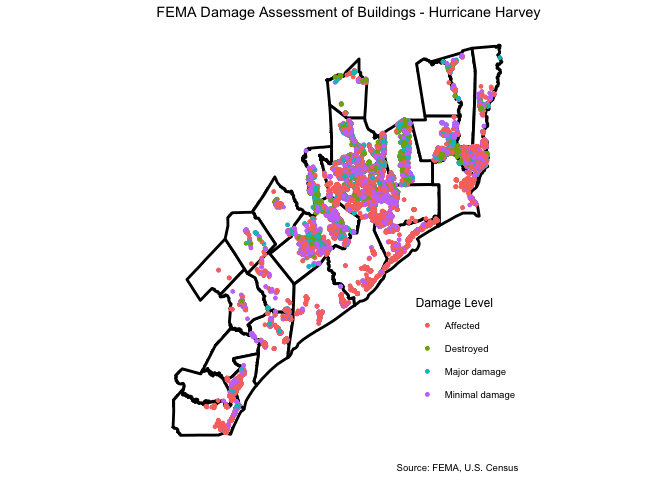
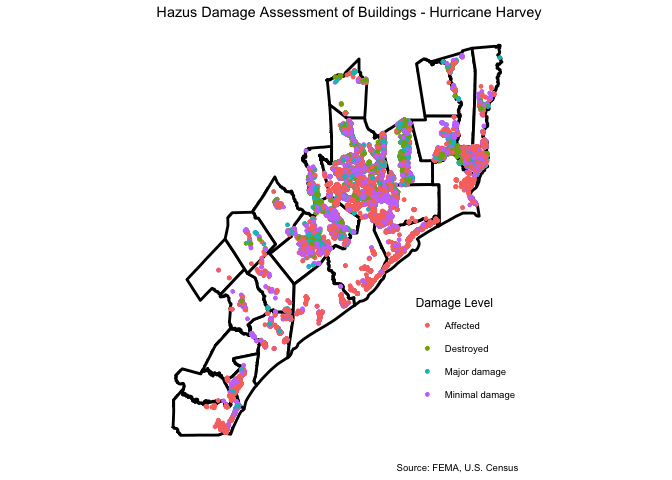
updates to text and graphs

Changed region(s): [[0.2188, 0.0, 0.8125, 0.0625]]

diff --git a/README.md b/README.md
@@ -1,34 +1,51 @@
 The Data Incubator - Challenge
 ================
 Jake Johnson
-10/29/2018
+11/14/2018
 
 ## Proposal
 
 One prediction of climate change is that the intensity and rainfall
-rates of cyclones will increase\[1\]. Also expected to increase are the
-damages and costs of such storms. In the U.S., hurricanes Florence,
-Harvey, and Michael serve as the most recent examples.
+rates of cyclones will increase\[1\]. For example, in the case of
+hurricane Harvey consider the following:
 
-The devastating effects of these events are demonstrated starkly via the
-use of satellite imagery both before and after they occur. For example,
-this Washington Post
+> … record high ocean heat values not only increased the fuel available
+> to sustain and intensify Harvey but also increased its flooding rains
+> on land. Harvey could not have produced so much rain without
+> human-induced climate change.\[2\]
+
+Similar flooding was observed following other recent hurricanes such as
+Florence, Maria, and Michael.
+
+Also expected to increase are the damages and costs of such storms.
+These devastating effects are illustrated starkly via the use of
+satellite imagery both before and after they occur. For example, this
+Washington Post
 [graphic](https://www.washingtonpost.com/graphics/2018/world/amp-stories/before-and-after-images-of-typhoon-yutu-destruction/)
-shows the destruction brought by Super Typhoon Yutu.
+shows the destruction brought by Super Typhoon Yutu. These pictures are
+indeed worth a thousand words, but they are also documenting potentially
+many thousands of dollars in damages.
 
 Recently, efforts have been made to use such imagery as means for
-automated damage detection in storm-effected areas\[2\]\[3\]. I propose
+automated damage detection in storm-effected areas\[3\]\[4\]. I propose
 using and building on these existing methodologies to assess
 storm-damaged areas and linking this information to estimates of
-localized monetary damages. This would provide a novel approach for
-predicting the costs of future storms.
+monetary damages. This would provide a novel approach for predicting the
+costs of future storms.
 
 ## Data Sources
 
-  - [National Hurricane Center](https://www.nhc.noaa.gov/data/hurdat/)
-
   - [Billion-Dollar
     Disasters](https://www.ncdc.noaa.gov/billions/time-series)
+
+  - [Disaster Data Science Lab](https://www.ddslab.info/)
+
+  - [FEMA National Disaster
+    Assessments](https://data.femadata.com/NationalDisasters/)
+    
+      - [Hazus Methodology](https://www.fema.gov/hazus)
+
+  - [FEMA Spending](https://www.usaspending.gov/#/)
 
   - [National Geodetic Survey](https://www.ngs.noaa.gov/)
     
@@ -37,10 +54,10 @@ predicting the costs of future storms.
       - [Emergency Response Imagery -
         After](https://storms.ngs.noaa.gov/)
 
-  - [FEMA Spending](https://www.usaspending.gov/#/)
+  - [National Hurricane Center](https://www.nhc.noaa.gov/data/hurdat/)
 
-  - [FEMA National Disaster
-    Assessments](https://data.femadata.com/NationalDisasters/)
+  - [Homeland Infrastructure Foundation-Level
+    Data](https://hifld-geoplatform.opendata.arcgis.com/)
 
 ## Plots
 
@@ -52,10 +69,16 @@ predicting the costs of future storms.
 
 1.  <https://www.gfdl.noaa.gov/global-warming-and-hurricanes/>
 
-2.  Barnes, C. F., Fritz, H., & Yoo, J. (2007). Hurricane Disaster
+2.  Trenberth, K. E., Cheng, L., Jacobs, P., Zhang, Y., & Fasullo, J.
+    (2018). Hurricane Harvey Links to Ocean Heat Content and Climate
+    Change Adaptation. Earth’s Future, 6(5), 730–744.
+    <http://doi.org/10.1029/2018EF000825>
+
+3.  Barnes, C. F., Fritz, H., & Yoo, J. (2007). Hurricane Disaster
     Assessments With Image-Driven Data Mining in High-Resolution
     Satellite Imagery. IEEE Transactions on Geoscience and Remote
     Sensing, 45(6), 1631–1640. <http://doi.org/10.1109/TGRS.2007.890808>
 
-3.  Cao, Q. D., & Choe, Y. (2018, July 4). Deep Learning Based Damage
-    Detection on Post- Hurricane Satellite Imagery. arXiv.
+4.  Cao, Q. D., & Choe, Y. (2018). Deep Learning Based Damage Detection
+    on Post-Hurricane Satellite Imagery. arXiv.
+    <https://arxiv.org/abs/1807.01688>
